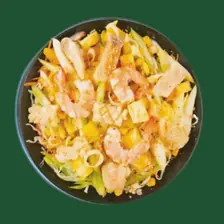
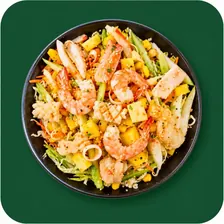
Update photo — Salade Vietnamienne

diff --git a/src/data/dishImages.ts b/src/data/dishImages.ts
@@ -47,7 +47,7 @@ export const CLIENT_DISH_IMAGES: Record<string, string> = {
   "b446a7355a": "/menu-hd-onglet6/salade-exotic-chicken.png",
   "c2651f806f": "/menu-hd-onglet6/salade-tropicale.png",
   "2c80cdd361": "/menu-hd-onglet6/salade-fruits-de-mer.jpg",
-  "fb89c84798": "/menu-hd-onglet6/salade-vietnamienne.png",
+  "fb89c84798": "/menu-hd-onglet6/salade-vietnamienne.jpg",
   "b56ed1406f": "/menu-hd-onglet6/salade-crevettes-tempura.png",
   "3a75439af2": "/menu-hd-onglet6/exotic-del-mar.png",
   "aa7a7bfe5c": "/menu-hd-onglet6/bobun.png",

diff --git a/src/data/yumloMenu.ts b/src/data/yumloMenu.ts
@@ -447,7 +447,7 @@ export const YUMLO_MENU = [
     "description": "Poulet, crevettes, choux, carottes, cacahuète, germe de soja, concombre, laitue, sauce viet",
     "priceMAD": "54.00",
     "currency": "MAD",
-    "image": "/menu-hd-onglet6/salade-vietnamienne.png"
+    "image": "/menu-hd-onglet6/salade-vietnamienne.jpg"
   },
   {
     "id": "b56ed1406f",
